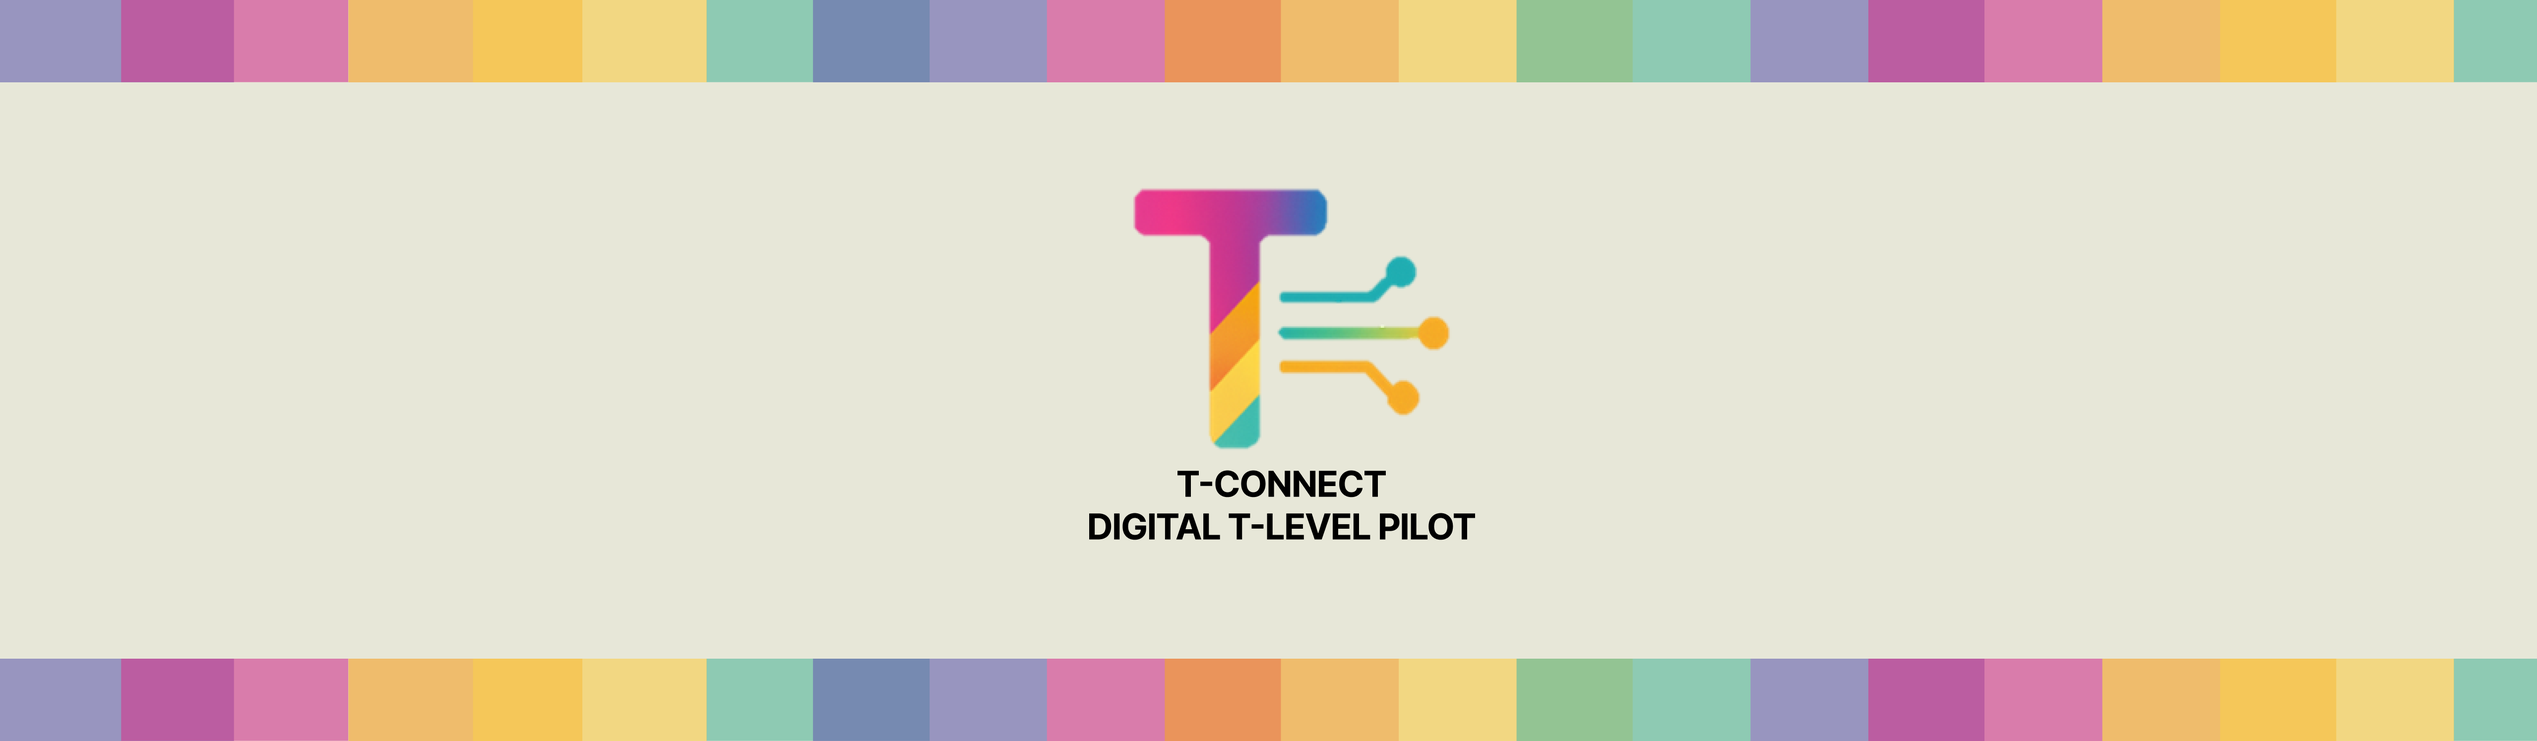
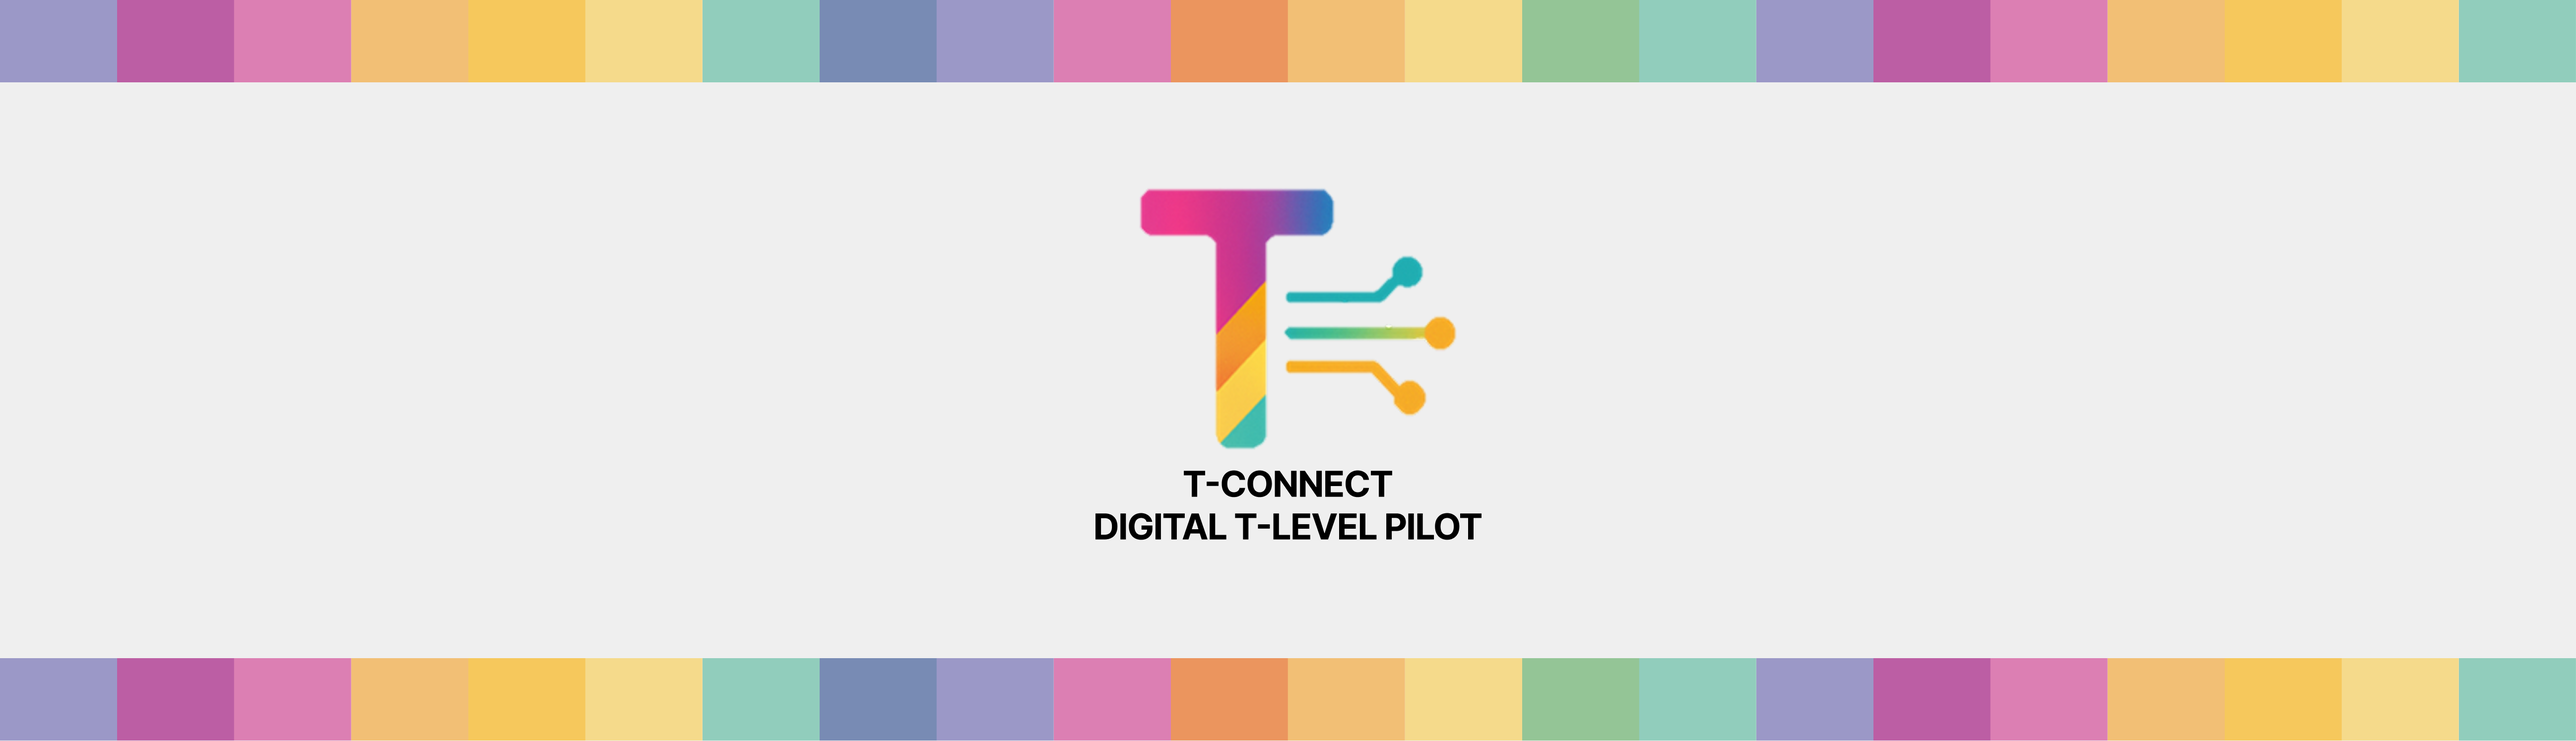
changed some background colours on each page !!

diff --git a/Bootstrap UX starter/faq.html b/Bootstrap UX starter/faq.html
@@ -31,13 +31,13 @@
         margin-top: auto;
     }
     body {
-        background-color: #E7E7D8;
+        background-color: #efefef;
         min-height: 100vh;
         display: flex;
         flex-direction: column;
     }
     section.hero {
-      background-image: url(e.png);
+      background-image: url(MacBook\ Pro\ 14_\ -\ 8.png);
       background-repeat: no-repeat;
       background-position: center;
       background-color: #E7E7D8;
@@ -88,7 +88,6 @@
         color: #000000;
     }
     .accordion {
-        background-color: #dfd7d7;
         text-align: left;
         padding-top: 0.2%;
         padding-bottom: 0.2%;
@@ -98,9 +97,7 @@
         display: block;
         width: 100%;
         text-align: left;
-        border-color: #d03a8f;
         padding: 8px 22px;
-        margin: 0 0 1px 0;
         position: relative;
         transition: ease .5s;
     }
@@ -131,9 +128,16 @@
     input {
         display: none;
     }
+    .accordion-button:not(.collapsed) {
+        color: #198754;
+        background-color: #bec1c3;
+        box-shadow: none;
+    }
+    h3 {
+      color: #000;
+    }
     .accordion-item {
-        background-color: #ffffff;
-        border: #000;
+      background-color: #828282;
     }
     </style>
 
@@ -156,7 +160,7 @@
               <li class="nav-link"><a href="index.html">HOME PAGE</a></li>
               <li class="nav-link"><a href="saved.html">ABOUT</a></li>
               <li class="nav-link active" aria-current="page"><a href="faq.html">FAQ</a></li>
-              <li class="nav-link"><a href="enquire.html">APPLY</a></li>
+              <li class="nav-link"><a href="enquire.html">ENQUIRE</a></li>
               <li class="nav-link"><a href="#">FIND A PLACEMENT</a></li>
           </ul>
         </div>
@@ -171,20 +175,20 @@
         </div>
       </section>
 
-      <div class="form-container">
-
-        <div class="container mt-5">
+      <div class="container mt-5">
             <div class="accordion" id="accordionExample">
                 <!-- First Item -->
                 <div class="accordion-item">
                 <h2 class="accordion-header" id="headingOne">
                     <button class="accordion-button collapsed" type="button" data-bs-toggle="collapse" data-bs-target="#collapseOne" aria-expanded="false" aria-controls="collapseOne">
-                    How can I contact employers?
+                    <h3>What should I do if I'm going to be late?</h3>
                     </button>
                 </h2>
                 <div id="collapseOne" class="accordion-collapse collapse show" aria-labelledby="headingOne" data-bs-parent="#accordionExample">
                     <div class="accordion-body">
-                    Ans
+                    <p>
+                    You would need to inform
+                    </p>
                     </div>
                 </div>
                 </div>
@@ -192,12 +196,14 @@
                 <div class="accordion-item">
                 <h2 class="accordion-header" id="headingTwo">
                     <button class="accordion-button collapsed" type="button" data-bs-toggle="collapse" data-bs-target="#collapseTwo" aria-expanded="false" aria-controls="collapseTwo">
-                    What should I do if I'm going to be late?
+                    <h3>How many placement hours will I need to complete?</h3>
                     </button>
                 </h2>
                 <div id="collapseTwo" class="accordion-collapse collapse" aria-labelledby="headingTwo" data-bs-parent="#accordionExample">
                     <div class="accordion-body">
-                    This is the content of Section 2
+                    <p>
+                    You would need to complete a total of 315 placement hours. These hours can be done in-person or remotely.
+                    </p>
                     </div>
                 </div>
                 </div>
@@ -205,18 +211,70 @@
                 <div class="accordion-item">
                 <h2 class="accordion-header" id="headingThree">
                     <button class="accordion-button collapsed" type="button" data-bs-toggle="collapse" data-bs-target="#collapseThree" aria-expanded="false" aria-controls="collapseThree">
-                    Will I recieve feedback?
+                    <h3>Will I recieve feedback on my work?</h3>
                     </button>
                 </h2>
                 <div id="collapseThree" class="accordion-collapse collapse" aria-labelledby="headingThree" data-bs-parent="#accordionExample">
                     <div class="accordion-body">
-                    This is the content of Section 3
+                    <p>
+                    Yes, you will recieve feedback from your placement leads. Feedback will be given in 1:1 talks, through emails or
+                    </p>
                     </div>
                 </div>
+                </div>
+                <!-- Fourth Item -->
+                <div class="accordion-item">
+                <h2 class="accordion-header" id="headingFour">
+                    <button class="accordion-button collapsed" type="button" data-bs-toggle="collapse" data-bs-target="#collapseFour" aria-expanded="false" aria-controls="collapseFour">
+                    <h3>Question</h3>
+                    </button>
+                </h2>
+                <div id="collapseFour" class="accordion-collapse collapse" aria-labelledby="headingFour" data-bs-parent="#accordionExample">
+                    <div class="accordion-body">
+                    <p>
+                    Question answer goes here.
+                    </p>
+                    </div>
+                </div>
+                </div>
+                <!-- Fifth Item -->
+                <div class="accordion-item">
+                <h2 class="accordion-header" id="headingFive">
+                    <button class="accordion-button collapsed" type="button" data-bs-toggle="collapse" data-bs-target="#collapseFive" aria-expanded="false" aria-controls="collapseFive">
+                    <h3>Question</h3>
+                    </button>
+                </h2>
+                <div id="collapseFive" class="accordion-collapse collapse" aria-labelledby="headingFive" data-bs-parent="#accordionExample">
+                    <div class="accordion-body">
+                    <p>
+                    Answer.
+                    </p>
+                    </div>
+                </div>
+                </div>
+                <!-- Sixth Item -->
+                <div class="accordion-item">
+                <h2 class="accordion-header" id="headingSix">
+                    <button class="accordion-button collapsed" type="button" data-bs-toggle="collapse" data-bs-target="#collapseSix" aria-expanded="false" aria-controls="collapseSix">
+                    <h3>What</h3>
+                    </button>
+                </h2>
+                <div id="collapseSix" class="accordion-collapse collapse" aria-labelledby="headingSix" data-bs-parent="#accordionExample">
+                    <div class="accordion-body">
+                    <p>
+                    No.
+                    </p>
+                    </div>
+                </div>
+
                 </div>
             </div>
         </div>
         <script src="https://cdn.jsdelivr.net/npm/bootstrap@5.3.0/dist/js/bootstrap.bundle.min.js"></script>
+    </div>
+    </div>
+    </div>
+    <br />
 
     <footer class="footer">
       <div class="container">

diff --git a/Bootstrap UX starter/saved.html b/Bootstrap UX starter/saved.html
@@ -30,13 +30,13 @@
         margin-top: auto;
     }
     body {
-        background-color: #E7E7D8;
+        background-color: #efefef;
         min-height: 100vh;
         display: flex;
         flex-direction: column;
     }
     section.hero {
-      background-image: url(e.png);
+      background-image: url(MacBook\ Pro\ 14_\ -\ 8.png);
       background-repeat: no-repeat;
       background-position: center;
       background-color: #E7E7D8;
@@ -80,6 +80,9 @@
     .navbar-inverse .navbar-nav>li>a:hover {
       color: #fff;
     }
+    h3 {
+      color: #000;
+    }
     </style>
 
   <body>
@@ -101,7 +104,7 @@
               <li class="nav-link"><a href="index.html">HOME PAGE</a></li>
               <li class="nav-link active" aria-current="page"><a href="saved.html">ABOUT</a></li>
               <li class="nav-link"><a href="faq.html">FAQ</a></li>
-              <li class="nav-link"><a href="enquire.html">APPLY</a></li>
+              <li class="nav-link"><a href="enquire.html">ENQUIRE</a></li>
               <li class="nav-link"><a href="#">FIND A PLACEMENT</a></li>
           </ul>
         </div>
@@ -165,6 +168,57 @@
               </div>
             </div>
     </main>
+
+    <div class="card" style="border: 2px solid black; text-align: center;">
+      <div class="card-header">
+        Great Placement!
+      </div>
+      <div class="card-body">
+        <figure>
+          <blockquote class="blockquote" style="color:#000">
+            <p>Description of why the student liked the placement will go here.</p>
+          </blockquote>
+          <figcaption class="blockquote-footer" style="color:#3a3737">
+            Student Name - <cite title="Source Title">(T-Level Student)</cite>
+          </figcaption>
+        </figure>
+      </div>
+    </div>
+    <br />
+
+    <div class="card" style="border: 2px solid black; text-align: center;">
+      <div class="card-header">
+        Great Placement!
+      </div>
+      <div class="card-body">
+        <figure>
+          <blockquote class="blockquote" style="color:#000">
+            <p>Description of why the student liked the placement will go here.</p>
+          </blockquote>
+          <figcaption class="blockquote-footer" style="color:#3a3737">
+            Student Name - <cite title="Source Title">(T-Level Student)</cite>
+          </figcaption>
+        </figure>
+      </div>
+    </div>
+    <br />
+
+    <div class="card" style="border: 2px solid black; text-align: center;">
+      <div class="card-header">
+        Great Placement!
+      </div>
+      <div class="card-body">
+        <figure>
+          <blockquote class="blockquote" style="color:#000">
+            <p>Description of why the student liked the placement will go here.</p>
+          </blockquote>
+          <figcaption class="blockquote-footer" style="color:#3a3737">
+            Student Name - <cite title="Source Title">(T-Level Student)</cite>
+          </figcaption>
+        </figure>
+      </div>
+    </div>
+    <br />
 
     <footer class="footer">
       <div class="container">

diff --git a/Bootstrap UX starter/index.html b/Bootstrap UX starter/index.html
@@ -36,7 +36,7 @@
         flex-direction: column;
     }
     section.hero {
-      background-image: url(e.png);
+      background-image: url(MacBook\ Pro\ 14_\ -\ 8.png);
       background-repeat: no-repeat;
       background-position: center;
       background-color: #E7E7D8;
@@ -80,6 +80,9 @@
     .navbar-inverse .navbar-nav>li>a:hover {
       color: #fff;
     }
+    h3 {
+      color: #000;
+    }
     </style>
 
   <body>
@@ -101,7 +104,7 @@
               <li class="nav-link active" aria-current="page"><a href="index.html">HOME PAGE</a></li>
               <li class="nav-link"><a href="saved.html">ABOUT</a></li>
               <li class="nav-link"><a href="faq.html">FAQ</a></li>
-              <li class="nav-link"><a href="enquire.html">APPLY</a></li>
+              <li class="nav-link"><a href="enquire.html">ENQUIRE</a></li>
               <li class="nav-link"><a href="#">FIND A PLACEMENT</a></li>
           </ul>
         </div>
@@ -159,6 +162,7 @@
         </div>
       </section>
     </main>
+    
 
     <footer class="footer">
       <div class="container">

diff --git a/Bootstrap UX starter/apply.html b/Bootstrap UX starter/apply.html
@@ -30,7 +30,7 @@
         margin-top: auto;
     }
     body {
-        background-color: #E7E7D8;
+        background-color: #efefef;
         min-height: 100vh;
         display: flex;
         flex-direction: column;
@@ -86,6 +86,9 @@
     a {
         color: #000000;
     }
+    h3 {
+      color: #000;
+    }
     </style>
 
   <body>
@@ -107,7 +110,7 @@
               <li class="nav-link"><a href="index.html">HOME PAGE</a></li>
               <li class="nav-link"><a href="saved.html">ABOUT</a></li>
               <li class="nav-link active" aria-current="page"><a href="faq.html">FAQ</a></li>
-              <li class="nav-link"><a href="enquire.html">APPLY</a></li>
+              <li class="nav-link"><a href="enquire.html">ENQUIRE</a></li>
               <li class="nav-link"><a href="#">FIND A PLACEMENT</a></li>
           </ul>
         </div>

diff --git a/Bootstrap UX starter/enquire.html b/Bootstrap UX starter/enquire.html
@@ -135,6 +135,9 @@
         background-color: #ffffff;
         border: #000;
     }
+    h3 {
+      color: #000;
+    }
     </style>
 
   <body>
@@ -156,7 +159,7 @@
               <li class="nav-link"><a href="index.html">HOME PAGE</a></li>
               <li class="nav-link"><a href="saved.html">ABOUT</a></li>
               <li class="nav-link"><a href="faq.html">FAQ</a></li>
-              <li class="nav-link active" aria-current="page"><a href="enquire.html">APPLY</a></li>
+              <li class="nav-link active" aria-current="page"><a href="enquire.html">ENQUIRE</a></li>
               <li class="nav-link"><a href="#">FIND A PLACEMENT</a></li>
           </ul>
         </div>
